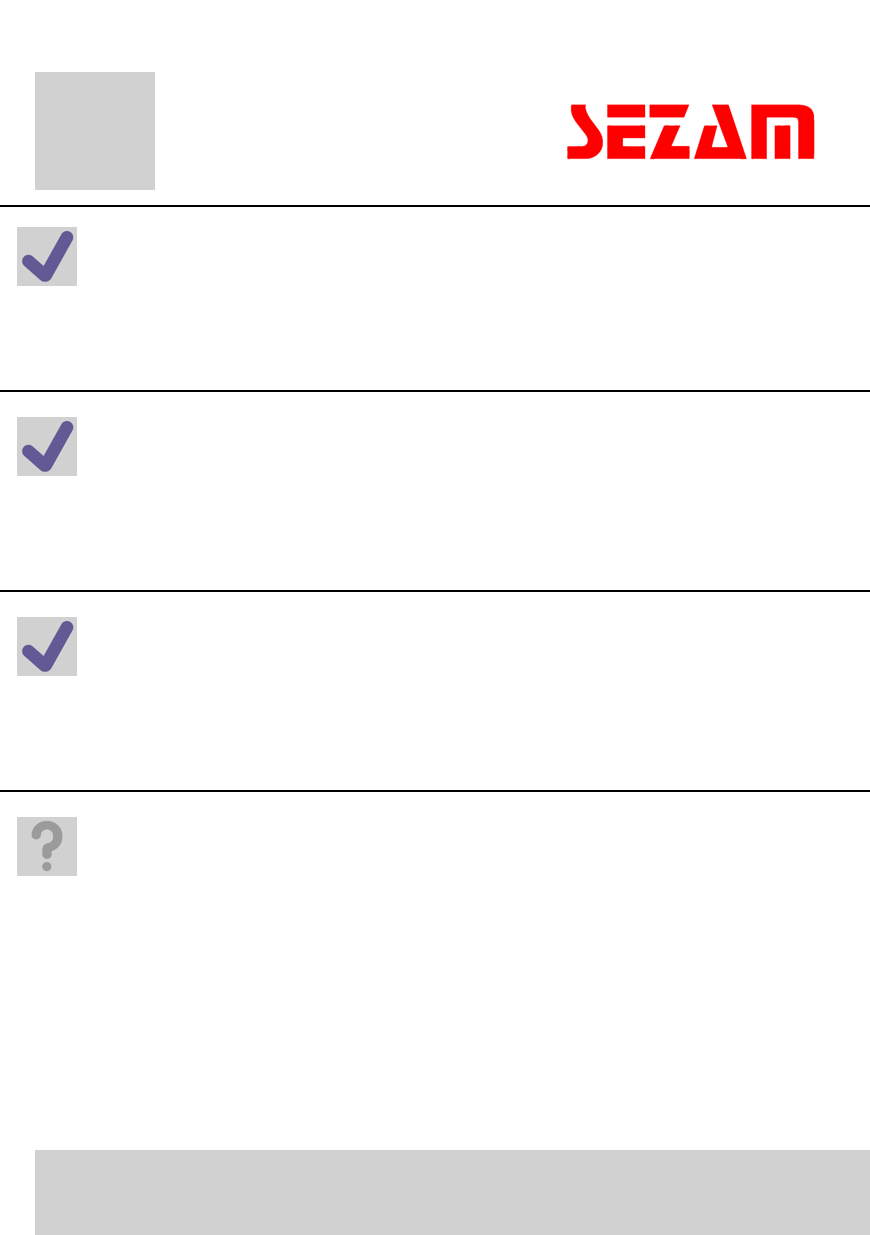
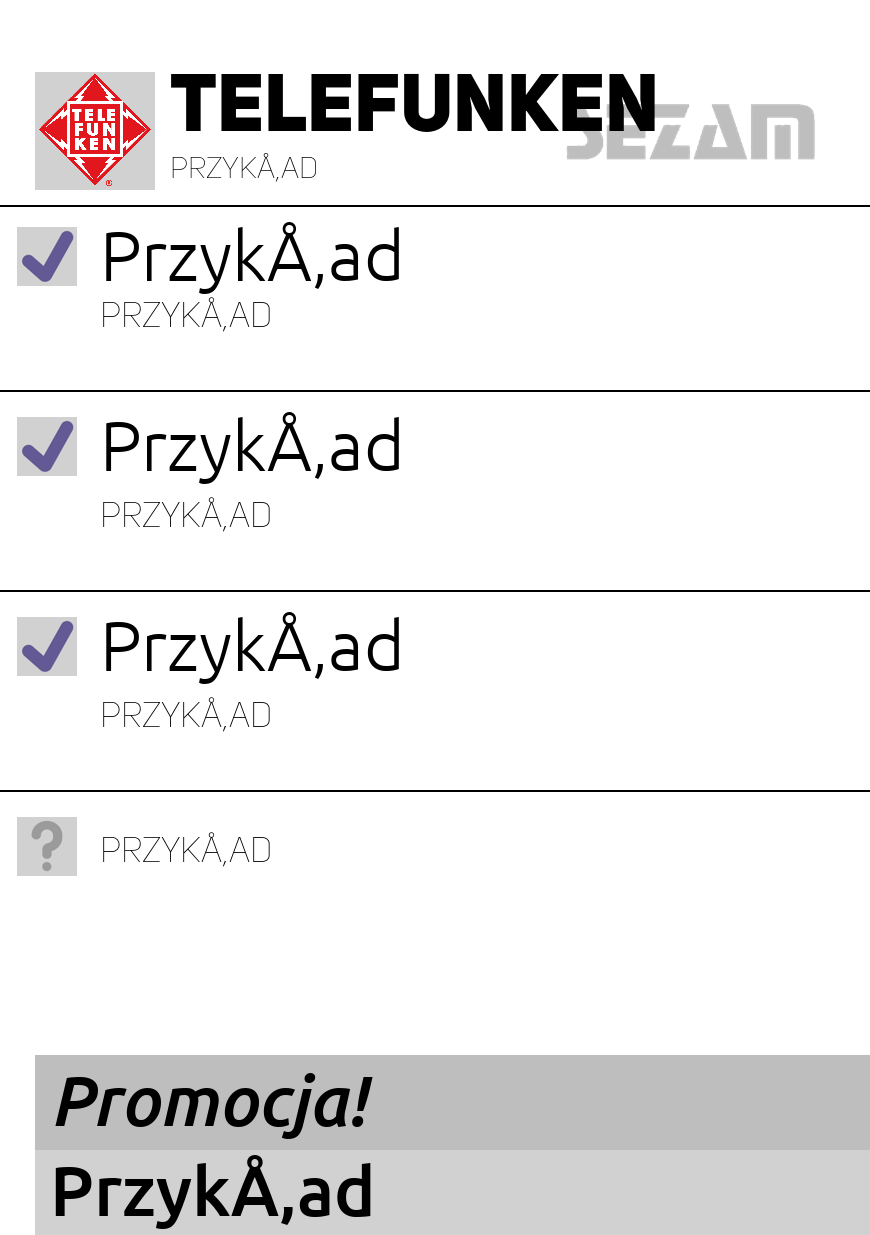
Add promotion mode

diff --git a/gen/laptop_prom.py b/gen/laptop_prom.py
@@ -1,0 +1,131 @@
+import os
+from PIL import Image, ImageDraw, ImageFont
+
+def generate_image_from_text_files(text_files, output_image, lines_y, image_mapping, image_data):
+    # Set up image parameters
+    image_width = 870
+    image_height = 1235
+    background_color = (255, 255, 255)  # White
+
+    # Create new image
+    image = Image.new("RGB", (image_width, image_height), background_color)
+    draw = ImageDraw.Draw(image)
+
+    # Paste PNG images specified in the image_data dictionary
+    for image_file, image_properties in image_data.items():
+        # Get the absolute path to the image file
+        image_file = os.path.join(os.path.dirname(__file__), image_file)
+        
+        # Open the PNG image
+        png_image = Image.open(image_file)
+        
+        # Resize the PNG image if specified
+        if 'scale' in image_properties:
+            scale = image_properties['scale']
+            png_image = png_image.resize((int(png_image.width * scale), int(png_image.height * scale)))
+
+        # Get the position for pasting the PNG image
+        image_x = image_properties.get('x', 0)
+        image_y = image_properties.get('y', 0)
+
+        # Paste the PNG image onto the image
+        image.paste(png_image, (image_x, image_y), png_image)
+
+    # Iterate over text files
+    for text_file, properties in text_files.items():
+        # Get the absolute path to the text file
+        text_file = os.path.join(os.path.dirname(__file__), text_file)
+
+        # Read text from file
+        with open(text_file, 'r') as file:
+            text = file.read().strip()
+
+        # Set text properties
+        font_size = properties.get('font_size', 20)
+        font_color = properties.get('text_color', (0, 0, 0))  # Default: black
+        text_x = properties.get('x', 0)
+        text_y = properties.get('y', 0)
+        
+        # Load font if specified
+        font = None
+        font_file = properties.get('font_file')
+        if font_file:
+            font_path = os.path.join(os.path.dirname(__file__), font_file)
+            font = ImageFont.truetype(font_path, font_size)
+
+        # Draw text on image
+        draw.text((text_x, text_y), text, fill=font_color, font=font)
+
+        # Check if the current text file is the one to apply image mapping
+        if "title.txt" in os.path.basename(text_file):
+            print(f"Text read from title.txt: {text}")  # Debug
+            # Convert everything to lowercases
+            image_mapping_lower = {key.lower(): value for key, value in image_mapping.items()}
+            if text.lower() in image_mapping_lower:
+                print(f"Detected {text} in {text_file}, applying image mapping...")  # Debug
+                # Get the filename of the corresponding PNG image
+                png_image_file = os.path.join(os.path.dirname(__file__), image_mapping_lower[text.lower()])
+                # Open and paste the PNG image onto the image
+                png_image = Image.open(png_image_file)
+                image.paste(png_image, (35, 72))  # Adjust position as needed  | text_x + 150, text_y)
+
+    # Draw multiple horizontal lines
+    for line_y in lines_y:
+        draw.line([(0, line_y), (image_width, line_y)], fill=(0, 0, 0), width=2)  # Adjust line properties as needed
+
+    # Save image
+    image.save(output_image)
+    print("Image generated successfully!")
+
+# Example usage:
+text_files = {
+    "title.txt": {"x": 170, "y": 70, "font_size": 80, "text_color": (0, 0, 0), "font_file": "us_heavy.otf"},
+    "desc.txt": {"x": 170, "y": 155, "font_size": 30, "text_color": (0, 0, 0), "font_file": "us_thin.otf"},
+
+    "sub1.txt": {"x": 100, "y": 215, "font_size": 70, "text_color": (0, 0, 0), "font_file": "fonts/Ubuntu-L.ttf"},
+    "text1.txt": {"x": 100, "y": 300, "font_size": 35, "text_color": (0, 0, 0), "font_file": "us_thin.otf"},
+
+    "sub2.txt": {"x": 100, "y": 405, "font_size": 70, "text_color": (0, 0, 0), "font_file": "fonts/Ubuntu-L.ttf"},
+    "text2.txt": {"x": 100, "y": 500, "font_size": 35, "text_color": (0, 0, 0), "font_file": "us_thin.otf"},
+
+    "sub3.txt": {"x": 100, "y": 605, "font_size": 70, "text_color": (0, 0, 0), "font_file": "fonts/Ubuntu-L.ttf"},
+    "text3.txt": {"x": 100, "y": 700, "font_size": 35, "text_color": (0, 0, 0), "font_file": "us_thin.otf"},
+
+    "text4.txt": {"x": 100, "y": 835, "font_size": 35, "text_color": (0, 0, 0), "font_file": "us_thin.otf"},
+
+
+    "promocja.txt": {"x": 50, "y": 1060, "font_size": 70, "text_color": (0, 0, 0), "font_file": "fonts/Ubuntu-MI.ttf"},
+    "price.txt": {"x": 50, "y": 1150, "font_size": 70, "text_color": (0, 0, 0), "font_file": "fonts/Ubuntu-M.ttf"},
+
+
+}  # Dictionary containing text file paths and their properties
+
+lines_y = [205,390,590,790]  # List of y-coordinates for the lines
+
+image_mapping = {
+    "HP": "HP.png",  # Mapping text content to PNG image filename
+    "SAMSUNG": "SAMSUNG.png",
+    "XIAOMI": "XIAOMI.png",
+    "PHILIPS": "PHILIPS.png",
+    "FINLUX": "FINLUX.png",
+    "TOSHIBA": "TOSHIBA.png",
+    "LG": "LG.png",
+    "TELEFUNKEN": "TELEFUNKEN.png",       # Add more mappings as needed
+}  # Dictionary containing text content and corresponding PNG image filenames
+
+image_data = {
+    "logo.png": {"x": 500, "y": 82, "scale": 0.4},
+    "tlo1.png": {"x": 35, "y": 72, "scale": 1},
+    "promocja.png": {"x": 35, "y": 1055, "scale": 10},
+    "tlo.png": {"x": 35, "y": 1150, "scale": 10},
+
+
+
+    "check.png": {"x": 17, "y": 227, "scale": 0.5},
+    "check2.png": {"x": 17, "y": 417, "scale": 0.5},
+    "check3.png": {"x": 17, "y": 617, "scale": 0.5},
+    "question.png": {"x": 17, "y": 817, "scale": 0.5},
+}  # Dictionary containing PNG image file paths and their properties
+
+output_image_path = "laptop.png"  # Replace with the desired output image filename
+generate_image_from_text_files(text_files, output_image_path, lines_y, image_mapping, image_data)
